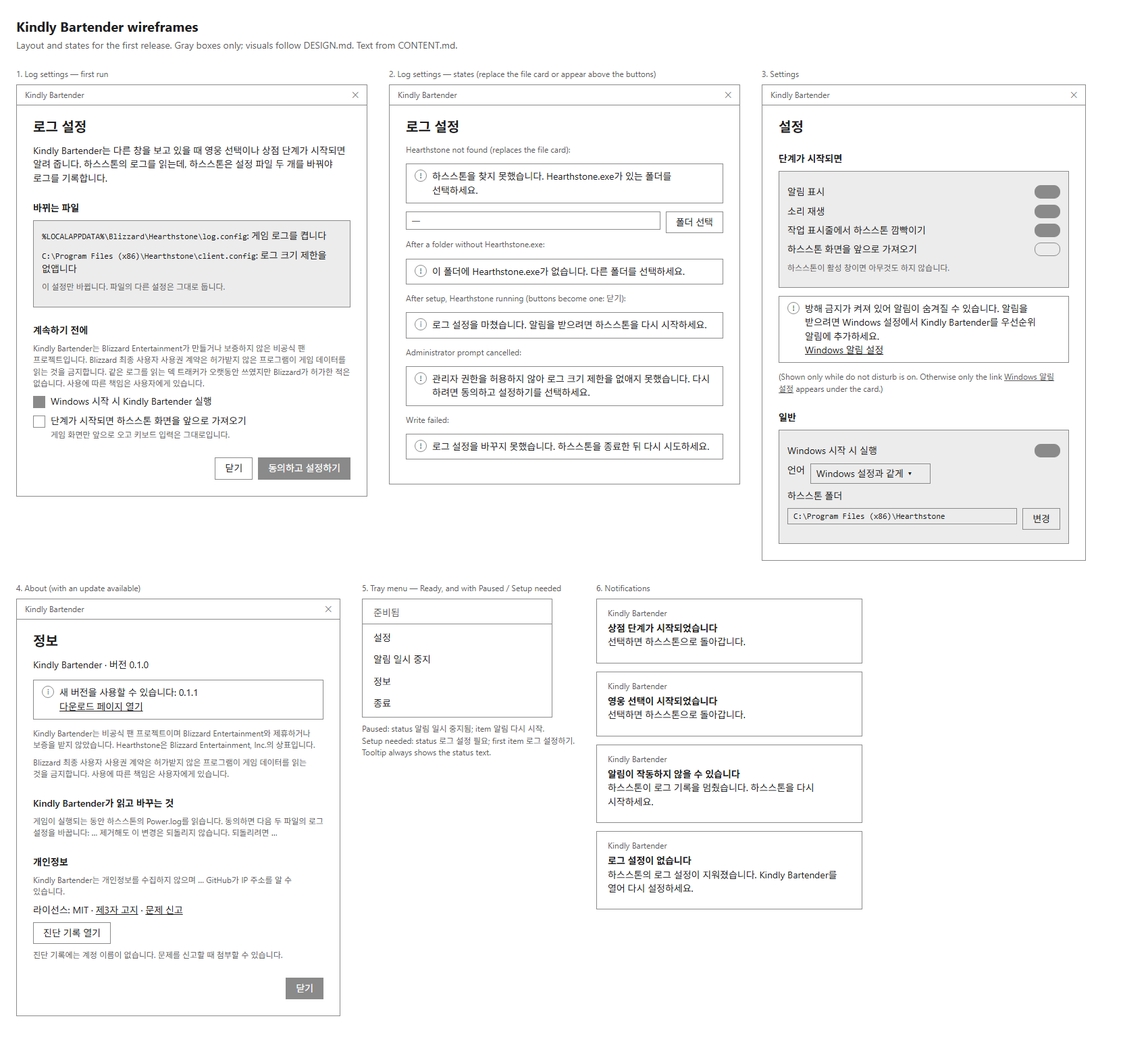
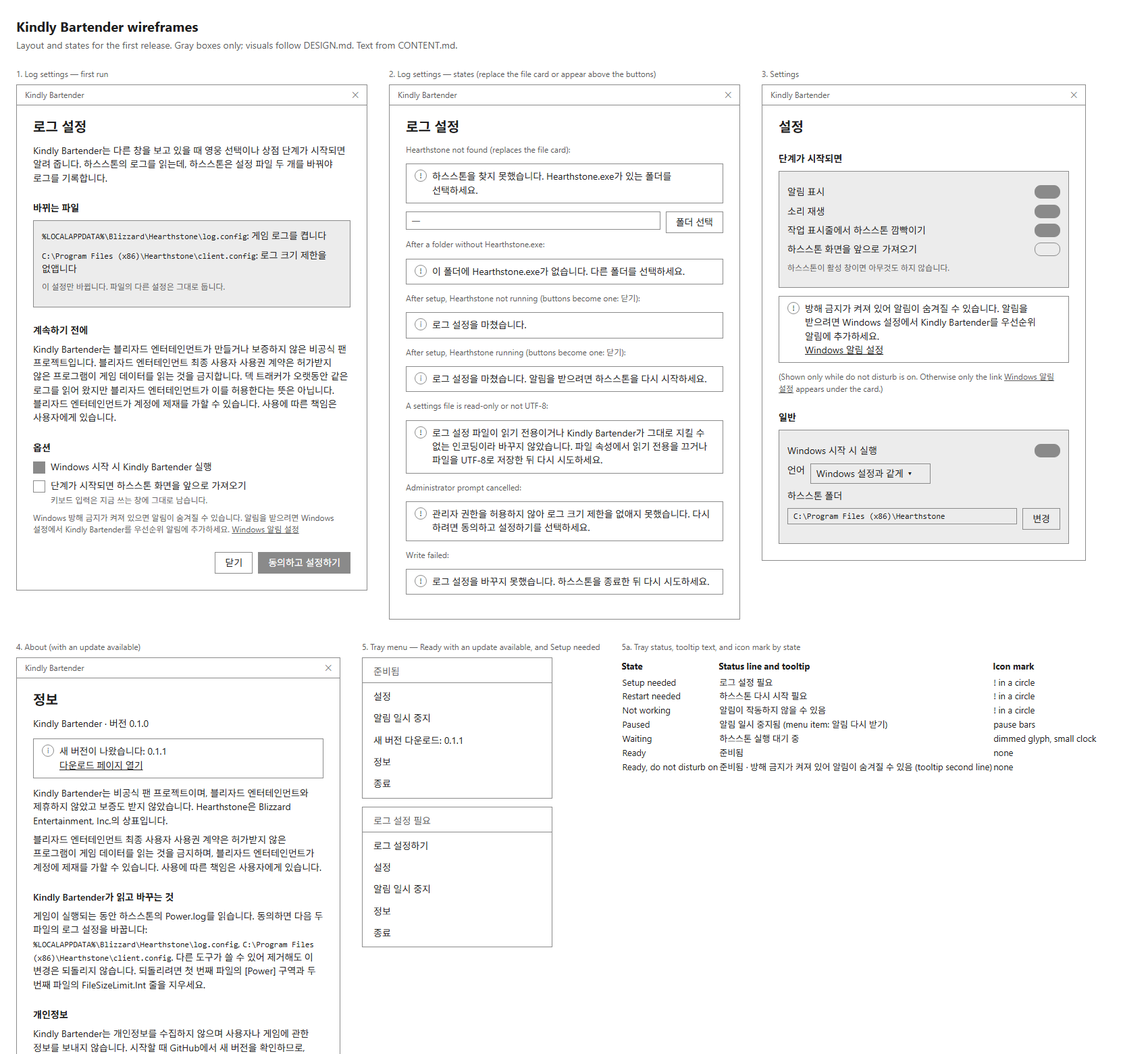
docs: revise UI words and wireframes after review
- The risk notice states the account risk instead of claiming Blizzard
  never authorized deck trackers; Korean body text names 블리자드
  엔터테인먼트, and the trademark line keeps the legal name.
- Undo steps remove only the line the app adds to client.config.
- 다시 시작 is kept for restarting Hearthstone; resume is 다시 받기.
- Setup explains do not disturb, has an Options heading, and has a
  message for files that are read-only or in another encoding.
- Toasts that ask for action say what selecting them does; the tray
  menu offers a new version.
- DESIGN.md: content scrolls at large text sizes, theme resources are
  used as dynamic resources, focus stays visible, and Waiting has its
  own icon mark.
- Wireframes show every tray state and the added setup states.
- The content check flags Korean 해요체 endings.

Refs: KBT-12

diff --git a/design/wireframes/index.html b/design/wireframes/index.html
@@ -59,9 +59,11 @@
       <p class="note">이 설정만 바뀝니다. 파일의 다른 설정은 그대로 둡니다.</p>
     </div>
     <h3>계속하기 전에</h3>
-    <p class="note">Kindly Bartender는 Blizzard Entertainment가 만들거나 보증하지 않은 비공식 팬 프로젝트입니다. Blizzard 최종 사용자 사용권 계약은 허가받지 않은 프로그램이 게임 데이터를 읽는 것을 금지합니다. 같은 로그를 읽는 덱 트래커가 오랫동안 쓰였지만 Blizzard가 허가한 적은 없습니다. 사용에 따른 책임은 사용자에게 있습니다.</p>
+    <p>Kindly Bartender는 블리자드 엔터테인먼트가 만들거나 보증하지 않은 비공식 팬 프로젝트입니다. 블리자드 엔터테인먼트 최종 사용자 사용권 계약은 허가받지 않은 프로그램이 게임 데이터를 읽는 것을 금지합니다. 덱 트래커가 오랫동안 같은 로그를 읽어 왔지만 블리자드 엔터테인먼트가 이를 허용한다는 뜻은 아닙니다. 블리자드 엔터테인먼트가 계정에 제재를 가할 수 있습니다. 사용에 따른 책임은 사용자에게 있습니다.</p>
+    <h3>옵션</h3>
     <div class="row"><span class="box on"></span><span>Windows 시작 시 Kindly Bartender 실행</span></div>
-    <div class="row"><span class="box"></span><span>단계가 시작되면 하스스톤 화면을 앞으로 가져오기<br><span class="note">게임 화면만 앞으로 오고 키보드 입력은 그대로입니다.</span></span></div>
+    <div class="row"><span class="box"></span><span>단계가 시작되면 하스스톤 화면을 앞으로 가져오기<br><span class="note">키보드 입력은 지금 쓰는 창에 그대로 남습니다.</span></span></div>
+    <p class="note">Windows 방해 금지가 켜져 있으면 알림이 숨겨질 수 있습니다. 알림을 받으려면 Windows 설정에서 Kindly Bartender를 우선순위 알림에 추가하세요. <u>Windows 알림 설정</u></p>
     <div class="buttons"><span class="button">닫기</span><span class="button primary">동의하고 설정하기</span></div>
   </div>
 </figure>
@@ -76,8 +78,12 @@
     <div class="row"><span class="field note">—</span><span class="button">폴더 선택</span></div>
     <p class="note">After a folder without Hearthstone.exe:</p>
     <div class="banner"><span class="icon">!</span><span>이 폴더에 Hearthstone.exe가 없습니다. 다른 폴더를 선택하세요.</span></div>
+    <p class="note">After setup, Hearthstone not running (buttons become one: 닫기):</p>
+    <div class="banner"><span class="icon">i</span><span>로그 설정을 마쳤습니다.</span></div>
     <p class="note">After setup, Hearthstone running (buttons become one: 닫기):</p>
     <div class="banner"><span class="icon">i</span><span>로그 설정을 마쳤습니다. 알림을 받으려면 하스스톤을 다시 시작하세요.</span></div>
+    <p class="note">A settings file is read-only or not UTF-8:</p>
+    <div class="banner"><span class="icon">!</span><span>로그 설정 파일이 읽기 전용이거나 Kindly Bartender가 그대로 지킬 수 없는 인코딩이라 바꾸지 않았습니다. 파일 속성에서 읽기 전용을 끄거나 파일을 UTF-8로 저장한 뒤 다시 시도하세요.</span></div>
     <p class="note">Administrator prompt cancelled:</p>
     <div class="banner"><span class="icon">!</span><span>관리자 권한을 허용하지 않아 로그 크기 제한을 없애지 못했습니다. 다시 하려면 동의하고 설정하기를 선택하세요.</span></div>
     <p class="note">Write failed:</p>
@@ -116,13 +122,13 @@
     <div class="titlebar"><span>Kindly Bartender</span><span>✕</span></div>
     <h2>정보</h2>
     <p>Kindly Bartender · 버전 0.1.0</p>
-    <div class="banner"><span class="icon">i</span><span>새 버전을 사용할 수 있습니다: 0.1.1<br><u>다운로드 페이지 열기</u></span></div>
-    <p class="note">Kindly Bartender는 비공식 팬 프로젝트이며 Blizzard Entertainment와 제휴하거나 보증을 받지 않았습니다. Hearthstone은 Blizzard Entertainment, Inc.의 상표입니다.</p>
-    <p class="note">Blizzard 최종 사용자 사용권 계약은 허가받지 않은 프로그램이 게임 데이터를 읽는 것을 금지합니다. 사용에 따른 책임은 사용자에게 있습니다.</p>
+    <div class="banner"><span class="icon">i</span><span>새 버전이 나왔습니다: 0.1.1<br><u>다운로드 페이지 열기</u></span></div>
+    <p>Kindly Bartender는 비공식 팬 프로젝트이며, 블리자드 엔터테인먼트와 제휴하지 않았고 보증도 받지 않았습니다. Hearthstone은 Blizzard Entertainment, Inc.의 상표입니다.</p>
+    <p>블리자드 엔터테인먼트 최종 사용자 사용권 계약은 허가받지 않은 프로그램이 게임 데이터를 읽는 것을 금지하며, 블리자드 엔터테인먼트가 계정에 제재를 가할 수 있습니다. 사용에 따른 책임은 사용자에게 있습니다.</p>
     <h3>Kindly Bartender가 읽고 바꾸는 것</h3>
-    <p class="note">게임이 실행되는 동안 하스스톤의 Power.log를 읽습니다. 동의하면 다음 두 파일의 로그 설정을 바꿉니다: … 제거해도 이 변경은 되돌리지 않습니다. 되돌리려면 …</p>
+    <p>게임이 실행되는 동안 하스스톤의 Power.log를 읽습니다. 동의하면 다음 두 파일의 로그 설정을 바꿉니다: <code>%LOCALAPPDATA%\Blizzard\Hearthstone\log.config</code>, <code>C:\Program Files (x86)\Hearthstone\client.config</code>. 다른 도구가 쓸 수 있어 제거해도 이 변경은 되돌리지 않습니다. 되돌리려면 첫 번째 파일의 [Power] 구역과 두 번째 파일의 FileSizeLimit.Int 줄을 지우세요.</p>
     <h3>개인정보</h3>
-    <p class="note">Kindly Bartender는 개인정보를 수집하지 않으며 … GitHub가 IP 주소를 알 수 있습니다.</p>
+    <p>Kindly Bartender는 개인정보를 수집하지 않으며 사용자나 게임에 관한 정보를 보내지 않습니다. 시작할 때 GitHub에서 새 버전을 확인하므로, 다른 웹 요청과 마찬가지로 IP 주소가 GitHub에 전달됩니다.</p>
     <p>라이선스: MIT · <u>제3자 고지</u> · <u>문제 신고</u></p>
     <div class="row"><span class="button">진단 기록 열기</span></div>
     <p class="note">진단 기록에는 계정 이름이 없습니다. 문제를 신고할 때 첨부할 수 있습니다.</p>
@@ -131,15 +137,38 @@
 </figure>
 
 <figure>
-  <figcaption>5. Tray menu — Ready, and with Paused / Setup needed</figcaption>
+  <figcaption>5. Tray menu — Ready with an update available, and Setup needed</figcaption>
   <div class="menu">
     <div class="status">준비됨</div>
+    <div>설정</div>
+    <div>알림 일시 중지</div>
+    <div>새 버전 다운로드: 0.1.1</div>
+    <div>정보</div>
+    <div>종료</div>
+  </div>
+  <div style="height:12px"></div>
+  <div class="menu">
+    <div class="status">로그 설정 필요</div>
+    <div>로그 설정하기</div>
     <div>설정</div>
     <div>알림 일시 중지</div>
     <div>정보</div>
     <div>종료</div>
   </div>
-  <p class="note" style="margin-top:8px">Paused: status 알림 일시 중지됨; item 알림 다시 시작.<br>Setup needed: status 로그 설정 필요; first item 로그 설정하기.<br>Tooltip always shows the status text.</p>
+</figure>
+
+<figure>
+  <figcaption>5a. Tray status, tooltip text, and icon mark by state</figcaption>
+  <table style="border-collapse:collapse; font-size:13px">
+    <tr><th style="text-align:left; padding:4px 12px 4px 0">State</th><th style="text-align:left; padding:4px 12px 4px 0">Status line and tooltip</th><th style="text-align:left; padding:4px 0">Icon mark</th></tr>
+    <tr><td>Setup needed</td><td>로그 설정 필요</td><td>! in a circle</td></tr>
+    <tr><td>Restart needed</td><td>하스스톤 다시 시작 필요</td><td>! in a circle</td></tr>
+    <tr><td>Not working</td><td>알림이 작동하지 않을 수 있음</td><td>! in a circle</td></tr>
+    <tr><td>Paused</td><td>알림 일시 중지됨 (menu item: 알림 다시 받기)</td><td>pause bars</td></tr>
+    <tr><td>Waiting</td><td>하스스톤 실행 대기 중</td><td>dimmed glyph, small clock</td></tr>
+    <tr><td>Ready</td><td>준비됨</td><td>none</td></tr>
+    <tr><td>Ready, do not disturb on</td><td>준비됨 · 방해 금지가 켜져 있어 알림이 숨겨질 수 있음 (tooltip second line)</td><td>none</td></tr>
+  </table>
 </figure>
 
 <figure>
@@ -150,7 +179,7 @@
   <div style="height:12px"></div>
   <div class="toast"><div class="app">Kindly Bartender</div><strong>알림이 작동하지 않을 수 있습니다</strong><p>하스스톤이 로그 기록을 멈췄습니다. 하스스톤을 다시 시작하세요.</p></div>
   <div style="height:12px"></div>
-  <div class="toast"><div class="app">Kindly Bartender</div><strong>로그 설정이 없습니다</strong><p>하스스톤의 로그 설정이 지워졌습니다. Kindly Bartender를 열어 다시 설정하세요.</p></div>
+  <div class="toast"><div class="app">Kindly Bartender</div><strong>로그 설정이 없습니다</strong><p>하스스톤의 로그 설정이 지워졌습니다. 선택하면 다시 설정합니다.</p></div>
 </figure>
 
 </div>

diff --git a/CONTENT.md b/CONTENT.md
@@ -8,7 +8,7 @@ Plain, short, calm. Say what happened and what to do. The app is a background ut
 
 - English uses sentence case and addresses the reader as "you". Korean uses 합니다체 and leaves out an obvious subject.
 - No exclamation marks, emoji, or jokes. Notifications are as short as the message allows.
-- Never describe what the game shows beyond the phase that started, such as boards, opponents, or advice.
+- Never describe what the game shows beyond the phase that started, such as boards, opponents, or advice. A notification may add one sentence on what selecting it does.
 
 ## Terms
 
@@ -17,25 +17,29 @@ Use only these words for these concepts. Add a term here before using a new one 
 | Concept | English | Korean | Notes |
 | --- | --- | --- | --- |
 | The product | Kindly Bartender | Kindly Bartender | Never translated. |
-| The game | Hearthstone | 하스스톤 | A Blizzard trademark; used only to name the game. |
+| The game's maker | Blizzard Entertainment, Blizzard | 블리자드 엔터테인먼트 | Korean body text uses 블리자드 엔터테인먼트; the trademark line keeps the Latin legal name. |
+| The game | Hearthstone | 하스스톤 | A Blizzard trademark; used only to name the game. The trademark line keeps the Latin name. |
 | The mode | Battlegrounds | 전장 | |
-| The phase to buy minions | Recruit phase | 상점 단계 | Players say "상점"; the UI says 상점 단계 when a phase is meant. |
+| The phase to buy minions | Recruit phase | 상점 단계 | Players say "상점"; the UI says 상점 단계 when a phase is meant. To confirm against the Korean client. |
 | Choosing a hero | hero selection | 영웅 선택 | |
 | A Windows toast | notification | 알림 | |
-| Turning notifications off for a while | pause / resume | 일시 중지 / 다시 시작 | |
+| Turning notifications off for a while | pause / resume | 일시 중지 / 다시 받기 | 다시 시작 means restarting Hearthstone only. |
 | The two Hearthstone files | log settings | 로그 설정 | Never "config" in the UI. |
 | Writing the log settings | set up | 설정하기 | The window is 로그 설정 (Log settings). |
-| The app's options | Settings | 설정 | |
+| Choices on the log settings window | options | 옵션 | |
+| The app's options window | Settings | 설정 | |
 | The app's information window | About | 정보 | |
 | Showing the game window in front | bring Hearthstone to the front | 하스스톤 화면을 앞으로 가져오기 | Never "focus". |
+| Windows Do Not Disturb | do not disturb | 방해 금지 | |
 | The diagnostic log | diagnostic log | 진단 기록 | Distinct from Hearthstone's logs. |
 
 ## Patterns
 
 - Buttons: English starts with a verb ("Set up", "Close"); Korean is a noun form ("설정하기", "닫기").
-- A status in the tray menu is a short sentence without a final period.
+- A status in the tray menu is a short noun phrase without a final period.
 - Errors say what happened, then what to do. Warnings put the result in the title and the cause and fix in the body.
 - File paths and setting names appear in code font in windows and as plain text in notifications.
+- Korean never puts a particle right after a placeholder; use a colon or rephrase.
 
 ## Strings
 
@@ -50,16 +54,16 @@ IDs match the resource keys. `{0}` is a value filled in by the app.
 | Toast.Phase.Body | Select to return to Hearthstone. | 선택하면 하스스톤으로 돌아갑니다. |
 | Toast.NotWorking.Title | Notifications may not work | 알림이 작동하지 않을 수 있습니다 |
 | Toast.NotWorking.LogCapped | Hearthstone stopped writing its log. Restart Hearthstone. | 하스스톤이 로그 기록을 멈췄습니다. 하스스톤을 다시 시작하세요. |
-| Toast.NotWorking.NoSignal | No Recruit phase was found in this game. Kindly Bartender may need an update. | 이 게임에서 상점 단계를 찾지 못했습니다. Kindly Bartender 업데이트가 필요할 수 있습니다. |
+| Toast.NotWorking.NoSignal | No Recruit phase was found in this game. Kindly Bartender may need an update; check About for a new version. | 이 게임에서 상점 단계를 찾지 못했습니다. Kindly Bartender 업데이트가 필요할 수 있습니다. 정보에서 새 버전을 확인하세요. |
 | Toast.SetupNeeded.Title | Log settings are missing | 로그 설정이 없습니다 |
-| Toast.SetupNeeded.Body | Hearthstone’s log settings were removed. Open Kindly Bartender to set them up again. | 하스스톤의 로그 설정이 지워졌습니다. Kindly Bartender를 열어 다시 설정하세요. |
+| Toast.SetupNeeded.Body | Hearthstone’s log settings were removed. Select to set them up again. | 하스스톤의 로그 설정이 지워졌습니다. 선택하면 다시 설정합니다. |
 
 ### Tray
 
 | ID | English | Korean |
 | --- | --- | --- |
 | Tray.Status.SetupNeeded | Log settings needed | 로그 설정 필요 |
-| Tray.Status.RestartNeeded | Restart Hearthstone to start notifications | 알림을 받으려면 하스스톤을 다시 시작하세요 |
+| Tray.Status.RestartNeeded | Hearthstone restart needed | 하스스톤 다시 시작 필요 |
 | Tray.Status.NotWorking | Notifications may not work | 알림이 작동하지 않을 수 있음 |
 | Tray.Status.Paused | Notifications paused | 알림 일시 중지됨 |
 | Tray.Status.Waiting | Waiting for Hearthstone | 하스스톤 실행 대기 중 |
@@ -68,7 +72,8 @@ IDs match the resource keys. `{0}` is a value filled in by the app.
 | Tray.Menu.SetUp | Set up log settings | 로그 설정하기 |
 | Tray.Menu.Settings | Settings | 설정 |
 | Tray.Menu.Pause | Pause notifications | 알림 일시 중지 |
-| Tray.Menu.Resume | Resume notifications | 알림 다시 시작 |
+| Tray.Menu.Resume | Resume notifications | 알림 다시 받기 |
+| Tray.Menu.Update | Download version {0} | 새 버전 다운로드: {0} |
 | Tray.Menu.About | About | 정보 |
 | Tray.Menu.Exit | Exit | 종료 |
 
@@ -77,16 +82,18 @@ IDs match the resource keys. `{0}` is a value filled in by the app.
 | ID | English | Korean |
 | --- | --- | --- |
 | Setup.Title | Log settings | 로그 설정 |
-| Setup.Intro | Kindly Bartender tells you when hero selection or a Recruit phase starts while you’re in another window. It reads Hearthstone’s log, which Hearthstone writes only after two of its settings files are changed. | Kindly Bartender는 다른 창을 보고 있을 때 영웅 선택이나 상점 단계가 시작되면 알려 줍니다. 하스스톤의 로그를 읽는데, 하스스톤은 설정 파일 두 개를 바꿔야 로그를 기록합니다. |
+| Setup.Intro | Kindly Bartender tells you when hero selection or a Recruit phase starts while you’re in another window. It reads Hearthstone’s log, which Hearthstone writes only after two of its settings files are changed. | Kindly Bartender는 다른 창을 보고 있을 때 영웅 선택이나 상점 단계가 시작되면 알려 줍니다. 하스스톤 로그를 읽어 알려 주는데, 하스스톤은 설정 파일 두 개를 바꿔야 로그를 남깁니다. |
 | Setup.Files.Heading | Files that will change | 바뀌는 파일 |
 | Setup.Files.LogConfig | {0}: turns on the game log | {0}: 게임 로그를 켭니다 |
 | Setup.Files.ClientConfig | {0}: removes the log size limit | {0}: 로그 크기 제한을 없앱니다 |
 | Setup.Files.Note | Only these settings change. Other settings in the files stay as they are. | 이 설정만 바뀝니다. 파일의 다른 설정은 그대로 둡니다. |
 | Setup.Risk.Heading | Before you continue | 계속하기 전에 |
-| Setup.Risk.Body | Kindly Bartender is an unofficial fan project, not made or endorsed by Blizzard Entertainment. Blizzard’s End User License Agreement forbids programs it hasn’t authorized from reading game data. Deck trackers that read the same log have been used for years, but Blizzard has never authorized them. Use Kindly Bartender at your own risk. | Kindly Bartender는 Blizzard Entertainment가 만들거나 보증하지 않은 비공식 팬 프로젝트입니다. Blizzard 최종 사용자 사용권 계약은 허가받지 않은 프로그램이 게임 데이터를 읽는 것을 금지합니다. 같은 로그를 읽는 덱 트래커가 오랫동안 쓰였지만 Blizzard가 허가한 적은 없습니다. 사용에 따른 책임은 사용자에게 있습니다. |
+| Setup.Risk.Body | Kindly Bartender is an unofficial fan project, not made or endorsed by Blizzard Entertainment. Blizzard’s End User License Agreement forbids programs it hasn’t authorized from reading game data. Deck trackers have read the same log for years, but that doesn’t mean Blizzard permits it. Blizzard could take action against your account. Use Kindly Bartender at your own risk. | Kindly Bartender는 블리자드 엔터테인먼트가 만들거나 보증하지 않은 비공식 팬 프로젝트입니다. 블리자드 엔터테인먼트 최종 사용자 사용권 계약은 허가받지 않은 프로그램이 게임 데이터를 읽는 것을 금지합니다. 덱 트래커가 오랫동안 같은 로그를 읽어 왔지만 블리자드 엔터테인먼트가 이를 허용한다는 뜻은 아닙니다. 블리자드 엔터테인먼트가 계정에 제재를 가할 수 있습니다. 사용에 따른 책임은 사용자에게 있습니다. |
+| Setup.Options.Heading | Options | 옵션 |
 | Setup.StartWithWindows | Start Kindly Bartender with Windows | Windows 시작 시 Kindly Bartender 실행 |
 | Setup.BringToFront | Bring Hearthstone to the front when a phase starts | 단계가 시작되면 하스스톤 화면을 앞으로 가져오기 |
-| Setup.BringToFront.Note | The game window comes to the front without taking your keyboard. | 게임 화면만 앞으로 오고 키보드 입력은 그대로입니다. |
+| Setup.BringToFront.Note | Your typing stays in the window you’re using. | 키보드 입력은 지금 쓰는 창에 그대로 남습니다. |
+| Setup.DoNotDisturb | Windows do not disturb can hide notifications. To let them through, add Kindly Bartender to priority notifications in Windows settings. | Windows 방해 금지가 켜져 있으면 알림이 숨겨질 수 있습니다. 알림을 받으려면 Windows 설정에서 Kindly Bartender를 우선순위 알림에 추가하세요. |
 | Setup.Button.SetUp | Agree and set up | 동의하고 설정하기 |
 | Setup.Button.Close | Close | 닫기 |
 | Setup.Folder.Missing | Hearthstone wasn’t found. Choose the folder that contains Hearthstone.exe. | 하스스톤을 찾지 못했습니다. Hearthstone.exe가 있는 폴더를 선택하세요. |
@@ -96,6 +103,7 @@ IDs match the resource keys. `{0}` is a value filled in by the app.
 | Setup.RestartNeeded | Log settings are set up. Restart Hearthstone to start notifications. | 로그 설정을 마쳤습니다. 알림을 받으려면 하스스톤을 다시 시작하세요. |
 | Setup.Elevation.Cancelled | The log size limit wasn’t removed because administrator permission wasn’t given. Select Agree and set up to try again. | 관리자 권한을 허용하지 않아 로그 크기 제한을 없애지 못했습니다. 다시 하려면 동의하고 설정하기를 선택하세요. |
 | Setup.Failed | The log settings couldn’t be changed. Close Hearthstone and try again. | 로그 설정을 바꾸지 못했습니다. 하스스톤을 종료한 뒤 다시 시도하세요. |
+| Setup.NotEditable | A log settings file is read-only or saved in an encoding Kindly Bartender can’t keep intact, so it wasn’t changed. Turn off read-only in the file’s properties, or save the file as UTF-8, and try again. | 로그 설정 파일이 읽기 전용이거나 Kindly Bartender가 그대로 지킬 수 없는 인코딩이라 바꾸지 않았습니다. 파일 속성에서 읽기 전용을 끄거나 파일을 UTF-8로 저장한 뒤 다시 시도하세요. |
 
 ### Settings window
 
@@ -113,7 +121,7 @@ IDs match the resource keys. `{0}` is a value filled in by the app.
 | Settings.General.Heading | General | 일반 |
 | Settings.StartWithWindows | Start with Windows | Windows 시작 시 실행 |
 | Settings.Language | Language | 언어 |
-| Settings.Language.System | Same as Windows | Windows 설정과 같게 |
+| Settings.Language.System | Same as Windows | Windows 언어 사용 |
 | Settings.Folder | Hearthstone folder | 하스스톤 폴더 |
 | Settings.Folder.Change | Change | 변경 |
 
@@ -123,14 +131,14 @@ IDs match the resource keys. `{0}` is a value filled in by the app.
 | --- | --- | --- |
 | About.Title | About | 정보 |
 | About.Version | Version {0} | 버전 {0} |
-| About.Update | A new version is available: {0} | 새 버전을 사용할 수 있습니다: {0} |
+| About.Update | A new version is available: {0} | 새 버전이 나왔습니다: {0} |
 | About.Update.Link | Open the download page | 다운로드 페이지 열기 |
-| About.Unofficial | Kindly Bartender is an unofficial fan project and is not affiliated with or endorsed by Blizzard Entertainment. Hearthstone is a trademark of Blizzard Entertainment, Inc. | Kindly Bartender는 비공식 팬 프로젝트이며 Blizzard Entertainment와 제휴하거나 보증을 받지 않았습니다. Hearthstone은 Blizzard Entertainment, Inc.의 상표입니다. |
-| About.Risk | Blizzard’s End User License Agreement forbids programs it hasn’t authorized from reading game data. Use Kindly Bartender at your own risk. | Blizzard 최종 사용자 사용권 계약은 허가받지 않은 프로그램이 게임 데이터를 읽는 것을 금지합니다. 사용에 따른 책임은 사용자에게 있습니다. |
+| About.Unofficial | Kindly Bartender is an unofficial fan project and is not affiliated with or endorsed by Blizzard Entertainment. Hearthstone is a trademark of Blizzard Entertainment, Inc. | Kindly Bartender는 비공식 팬 프로젝트이며, 블리자드 엔터테인먼트와 제휴하지 않았고 보증도 받지 않았습니다. Hearthstone은 Blizzard Entertainment, Inc.의 상표입니다. |
+| About.Risk | Blizzard’s End User License Agreement forbids programs it hasn’t authorized from reading game data, and Blizzard could take action against your account. Use Kindly Bartender at your own risk. | 블리자드 엔터테인먼트 최종 사용자 사용권 계약은 허가받지 않은 프로그램이 게임 데이터를 읽는 것을 금지하며, 블리자드 엔터테인먼트가 계정에 제재를 가할 수 있습니다. 사용에 따른 책임은 사용자에게 있습니다. |
 | About.Files.Heading | What Kindly Bartender reads and changes | Kindly Bartender가 읽고 바꾸는 것 |
-| About.Files.Body | It reads Hearthstone’s Power.log while the game runs. After you agree, it changes log settings in two files: {0}, {1}. Uninstalling doesn’t undo these changes, because other tools may use them. To undo them, delete the [Power] section from the first file and the [Log] section from the second. | 게임이 실행되는 동안 하스스톤의 Power.log를 읽습니다. 동의하면 다음 두 파일의 로그 설정을 바꿉니다: {0}, {1}. 다른 도구가 쓸 수 있어 제거해도 이 변경은 되돌리지 않습니다. 되돌리려면 첫 번째 파일의 [Power] 구역과 두 번째 파일의 [Log] 구역을 지우세요. |
+| About.Files.Body | It reads Hearthstone’s Power.log while the game runs. After you agree, it changes log settings in two files: {0}, {1}. Uninstalling doesn’t undo these changes, because other tools may use them. To undo them, delete the [Power] section from the first file and the FileSizeLimit.Int line from the second. | 게임이 실행되는 동안 하스스톤의 Power.log를 읽습니다. 동의하면 다음 두 파일의 로그 설정을 바꿉니다: {0}, {1}. 다른 도구가 쓸 수 있어 제거해도 이 변경은 되돌리지 않습니다. 되돌리려면 첫 번째 파일의 [Power] 구역과 두 번째 파일의 FileSizeLimit.Int 줄을 지우세요. |
 | About.Privacy.Heading | Privacy | 개인정보 |
-| About.Privacy.Body | Kindly Bartender collects no personal data and sends nothing about you or your games. At startup it checks GitHub for a new version, so GitHub sees your IP address, as with any web request. | Kindly Bartender는 개인정보를 수집하지 않으며 사용자나 게임에 관한 정보를 보내지 않습니다. 시작할 때 GitHub에서 새 버전을 확인하므로 다른 웹 요청과 마찬가지로 GitHub가 IP 주소를 알 수 있습니다. |
+| About.Privacy.Body | Kindly Bartender collects no personal data and sends nothing about you or your games. At startup it checks GitHub for a new version, so GitHub sees your IP address, as with any web request. | Kindly Bartender는 개인정보를 수집하지 않으며 사용자나 게임에 관한 정보를 보내지 않습니다. 시작할 때 GitHub에서 새 버전을 확인하므로, 다른 웹 요청과 마찬가지로 IP 주소가 GitHub에 전달됩니다. |
 | About.License | License: MIT | 라이선스: MIT |
 | About.ThirdParty | Third-party notices | 제3자 고지 |
 | About.Feedback | Report a problem | 문제 신고 |

diff --git a/DESIGN.md b/DESIGN.md
@@ -5,13 +5,13 @@ How Kindly Bartender looks. The app is a small Windows utility: it should look l
 ## Direction
 
 - Use the WPF Fluent theme (`ThemeMode="System"` on the application) and its controls without restyling them. Light and dark mode follow Windows.
-- Use the Windows accent color for the one primary button in a window and for nothing else.
+- Use the Windows accent color for the one primary button in a window (the theme's accent button style) and for nothing else.
 - No game imagery, Blizzard logos or colors, gradients, shadows beyond the theme's, decorative illustrations, or custom fonts.
-- Windows are small, fixed-width, and not resizable. Content flows top to bottom in one column.
+- Windows are small and fixed-width. Content flows top to bottom in one column and scrolls vertically (ScrollViewer) when it exceeds the window's maximum height; the button row stays visible.
 
 ## Tokens
 
-Colors come from the theme's resources (`TextFillColorPrimaryBrush`, `TextFillColorSecondaryBrush`, `CardBackgroundFillColorDefaultBrush`, `SystemFillColorCautionBrush`, `AccentFillColorDefaultBrush`). The app defines no colors of its own.
+Colors come from the Fluent theme's resources (`TextFillColorPrimaryBrush`, `TextFillColorSecondaryBrush`, `CardBackgroundFillColorDefaultBrush`, `SystemFillColorCautionBrush`, `AccentFillColorDefaultBrush`), always referenced with `DynamicResource` so that light, dark, and contrast themes switch while the app runs. The app defines no colors of its own. Resource keys are confirmed against the .NET 10 Fluent theme when the windows are built; a missing key is replaced by the nearest theme key and recorded here.
 
 | Token | Value | Use |
 | --- | --- | --- |
@@ -39,12 +39,13 @@ Sizes are in device-independent pixels and scale with the Windows text size sett
 ## Tray icon
 
 - An original glyph: a mug outline with a small dot, drawn in a single color that follows the taskbar's light or dark theme. No game artwork.
-- States are shown by a small overlay mark, not by color alone: none for Ready, a pause mark for Paused, an exclamation mark in a circle for Setup needed, Restart needed, and Not working, and a hollow glyph for Waiting for Hearthstone. The tooltip always gives the status text.
+- States are shown by a small overlay mark, not by color alone: none for Ready, a pause mark for Paused, an exclamation mark in a circle for Setup needed, Restart needed, and Not working, and a dimmed glyph with a small clock mark for Waiting for Hearthstone. The tooltip always gives the status text.
 
 ## Accessibility
 
 - Every control has an accessible name from its visible label. Status changes in a window are announced with a live region.
 - The tab order follows the visual order. Escape closes a window; Enter activates the primary button.
+- Focus stays visible: the theme's focus visual is kept and `FocusVisualStyle` is never set to null.
 - Text meets 4.5:1 contrast through the theme; the app adds no low-contrast text.
 - Windows work at 200% text size without clipping, and with Windows contrast themes.
 
